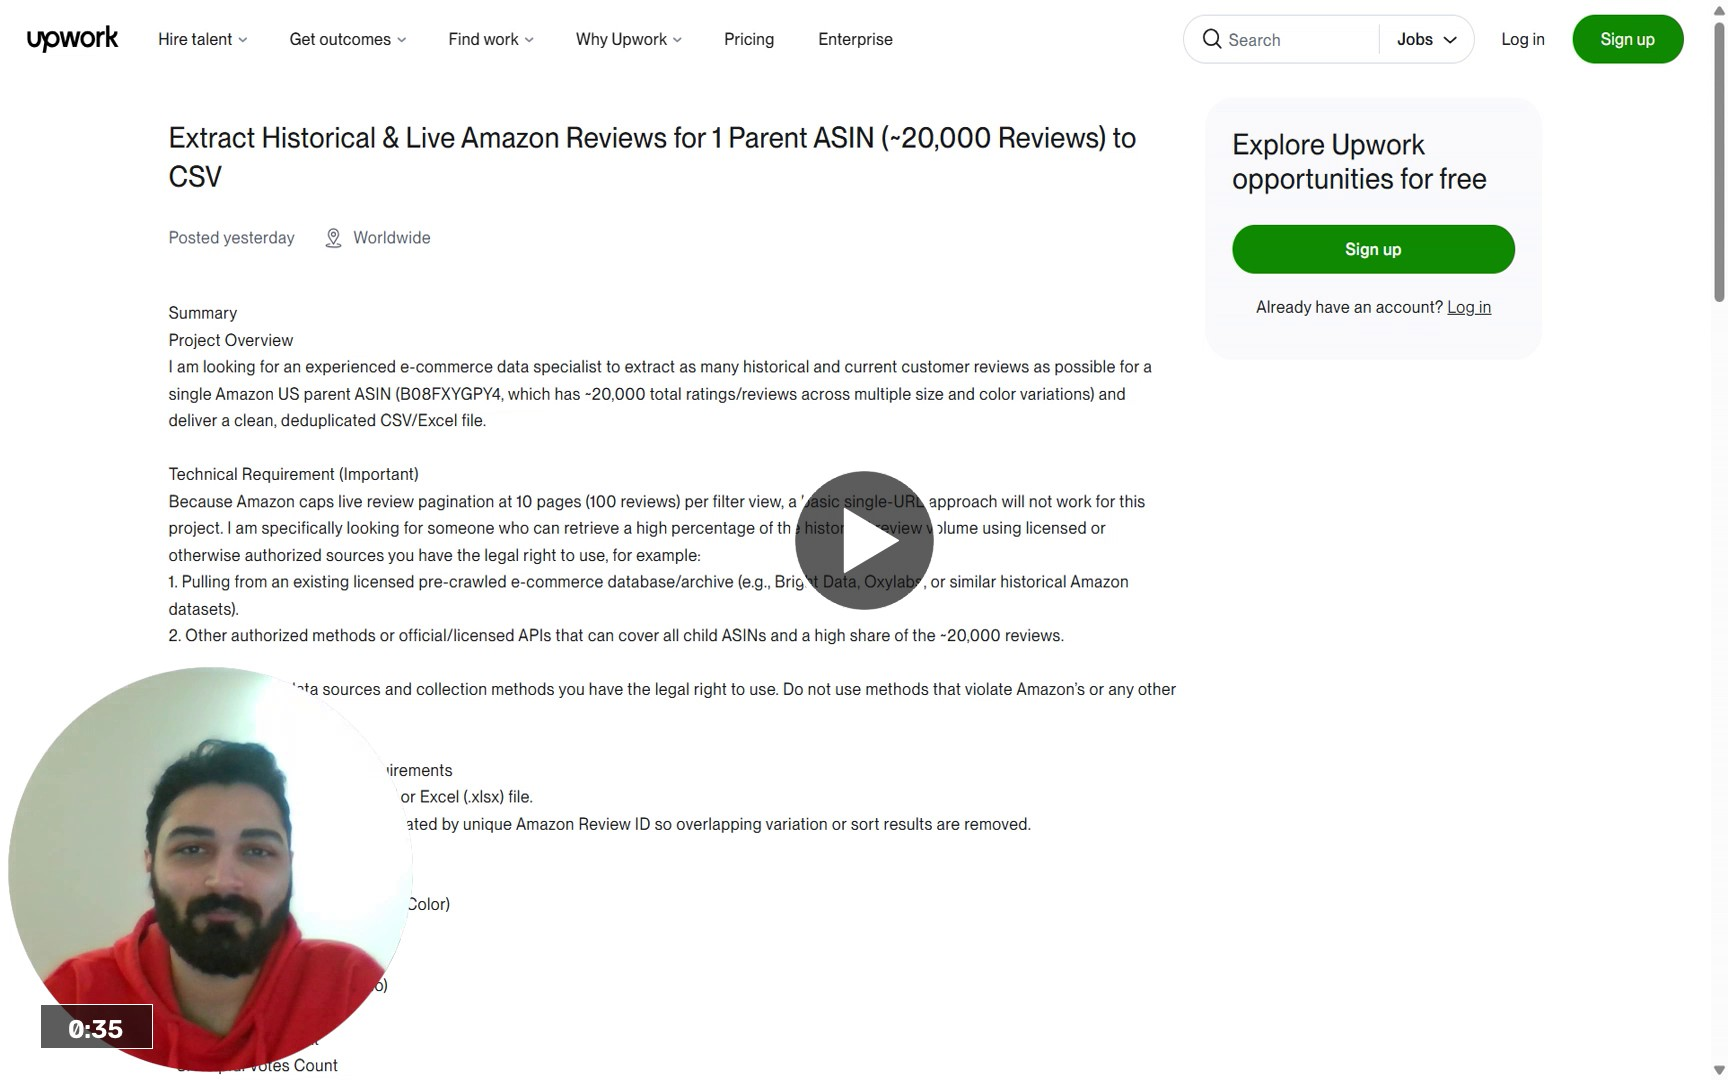
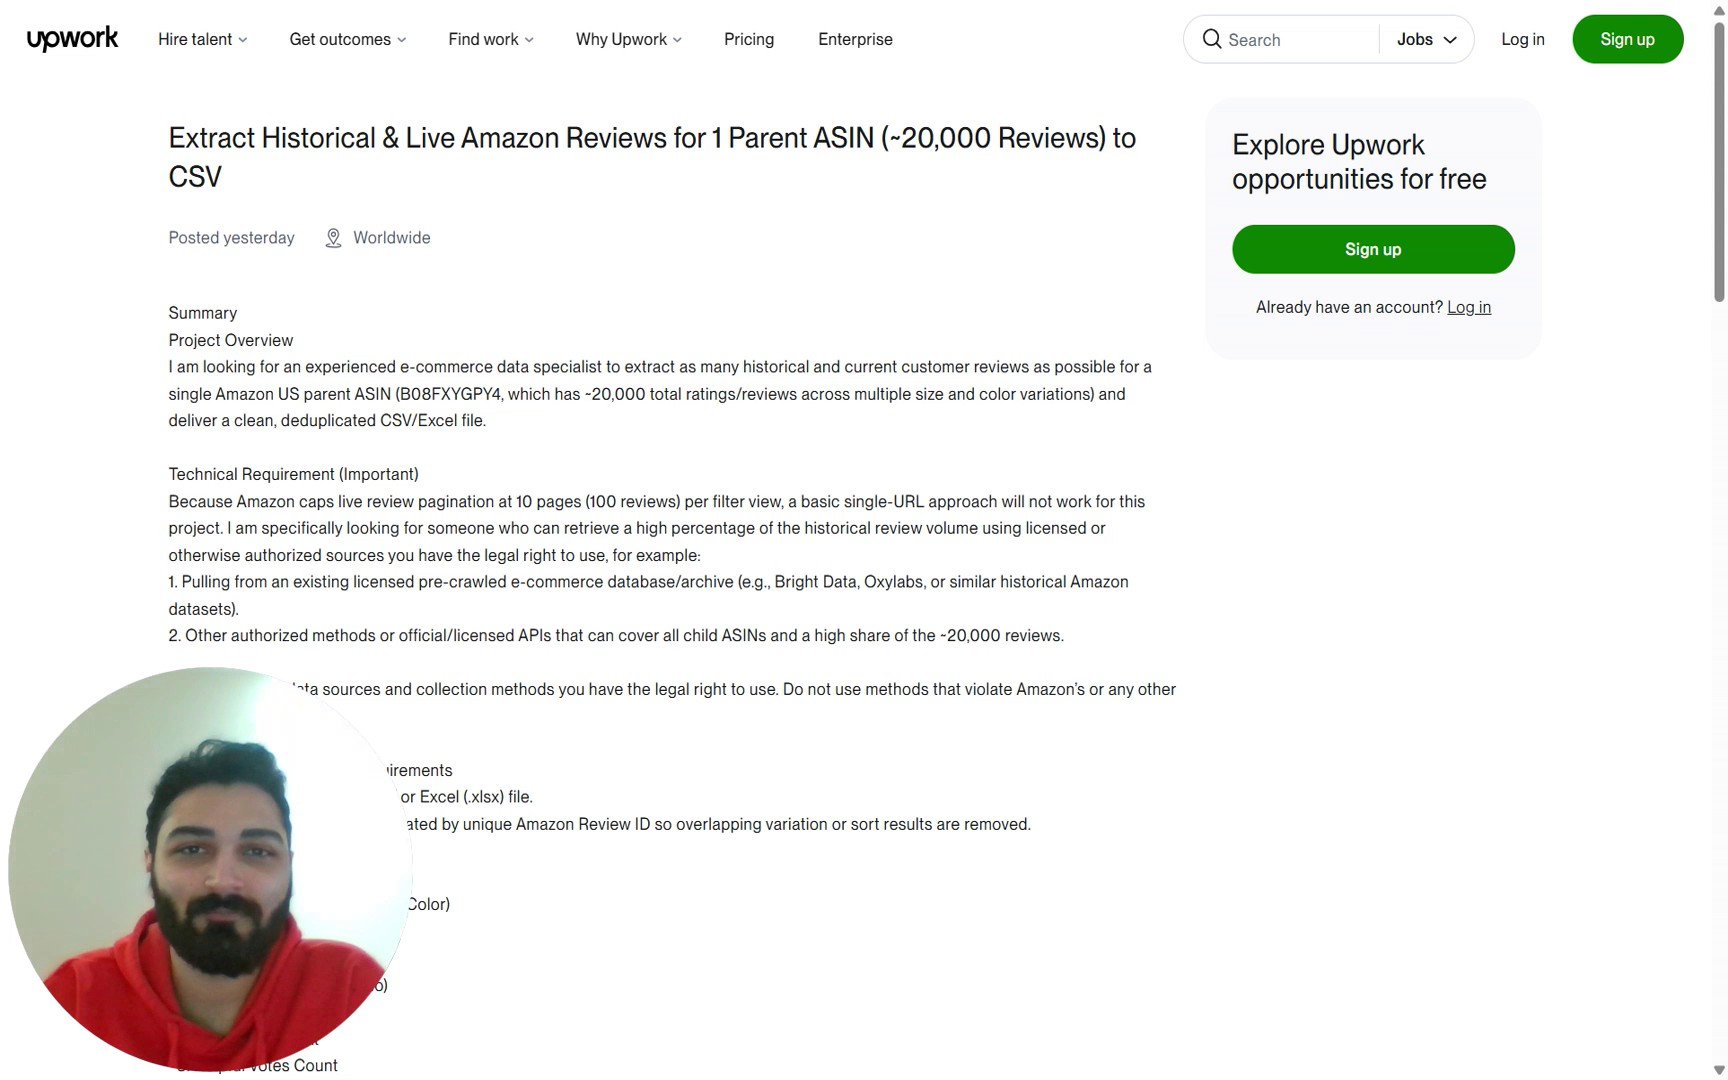
fix: remove duplicate play button from thumbnail and unblock chat link preview bots

Changed region(s): [[0.4375, 0.4278, 0.5625, 0.5806], [0.0, 0.9167, 0.0938, 0.9778]]

diff --git a/src/server.js b/src/server.js
@@ -135,6 +135,7 @@ async function detectVisitorTimezone(req) {
 }
 
 function sendPrivatePortalLocked(req, res) {
+  res.setHeader('X-Robots-Tag', 'noindex, nofollow, noarchive');
   if (req.path.startsWith('/api/')) {
     return res.status(403).json({ error: 'Access denied. Direct invitation link required.' });
   }
@@ -183,8 +184,6 @@ function extractValidExternalJobId(reqPath) {
 }
 
 app.use((req, res, next) => {
-  res.setHeader('X-Robots-Tag', 'noindex, nofollow, noarchive');
-
   const isExternal = Boolean(req.headers['cf-connecting-ip']) ||
     (req.hostname && !['localhost', '127.0.0.1'].includes(req.hostname));
 
@@ -566,7 +565,6 @@ app.get(['/share/:jobId', '/loom/:jobId'], (req, res) => {
   const safeVideoUrl = escapeHtml(videoUrl);
   const safePageUrl = escapeHtml(pageUrl);
   const safeOembedUrl = escapeHtml(oembedUrl);
-  const safeToken = escapeHtml(req.params.jobId);
 
   const metaTags = `<title id="pageTitle">${safeTitle} | Loom</title>
   <meta name="description" content="${safeDesc}" />
@@ -598,7 +596,6 @@ app.get(['/share/:jobId', '/loom/:jobId'], (req, res) => {
 
   let html = fs.readFileSync(path.join(__dirname, '..', 'public', 'loom.html'), 'utf8');
   html = html.replace('<title id="pageTitle">Video Message | Upwork</title>', metaTags);
-  html = html.replace('<video id="loomVideo"', `<video id="loomVideo" poster="/thumbnails/${safeToken}.jpg"`);
 
   res.setHeader('Cache-Control', 'no-cache, no-store, must-revalidate');
   res.setHeader('Content-Type', 'text/html; charset=utf-8');

diff --git a/scripts/render_video_generator.py b/scripts/render_video_generator.py
@@ -33,15 +33,10 @@ FPS = 25
 MAX_SCROLL_Y = 520
 
 def save_loom_thumbnail(video_path, thumb_path):
-    """Extract a clean early frame and draw a Loom-style play button and duration pill."""
+    """Extract a clean early frame from the video for link previews."""
     cap = cv2.VideoCapture(video_path)
     if not cap.isOpened():
         raise RuntimeError(f"Could not open video for thumbnail: {video_path}")
-
-    total_frames = cap.get(cv2.CAP_PROP_FRAME_COUNT)
-    vid_fps = cap.get(cv2.CAP_PROP_FPS) or 25.0
-    dur_s = int(round(total_frames / vid_fps)) if total_frames > 0 else 35
-    dur_label = f"{dur_s // 60}:{dur_s % 60:02d}"
 
     cap.set(cv2.CAP_PROP_POS_FRAMES, 20)
     ret, frame = cap.read()
@@ -52,31 +47,6 @@ def save_loom_thumbnail(video_path, thumb_path):
 
     if not ret or frame is None:
         raise RuntimeError(f"Failed to read frame from video: {video_path}")
-
-    h, w = frame.shape[:2]
-    cx, cy = w // 2, h // 2
-
-    # Semi-transparent dark circular backdrop for play button
-    overlay = frame.copy()
-    cv2.circle(overlay, (cx, cy), 72, (15, 15, 15), -1, lineType=cv2.LINE_AA)
-    # Bottom-left duration badge backdrop
-    pad_x, pad_y = 40, h - 76
-    pill_w, pill_h = 112, 44
-    cv2.rectangle(overlay, (pad_x, pad_y), (pad_x + pill_w, pad_y + pill_h), (15, 15, 15), -1)
-    cv2.addWeighted(overlay, 0.68, frame, 0.32, 0, frame)
-
-    # White circle outline + centered play triangle
-    cv2.circle(frame, (cx, cy), 72, (255, 255, 255), 3, lineType=cv2.LINE_AA)
-    pts = np.array([[cx - 20, cy - 32], [cx - 20, cy + 32], [cx + 34, cy]], np.int32)
-    cv2.fillPoly(frame, [pts], (255, 255, 255), lineType=cv2.LINE_AA)
-
-    # Duration text inside bottom-left pill
-    cv2.rectangle(frame, (pad_x, pad_y), (pad_x + pill_w, pad_y + pill_h), (255, 255, 255), 1)
-    font = cv2.FONT_HERSHEY_SIMPLEX
-    text_size = cv2.getTextSize(dur_label, font, 0.9, 2)[0]
-    tx = pad_x + (pill_w - text_size[0]) // 2
-    ty = pad_y + (pill_h + text_size[1]) // 2
-    cv2.putText(frame, dur_label, (tx, ty), font, 0.9, (255, 255, 255), 2, cv2.LINE_AA)
 
     os.makedirs(os.path.dirname(thumb_path), exist_ok=True)
     ok = cv2.imwrite(thumb_path, frame, [int(cv2.IMWRITE_JPEG_QUALITY), 90])
